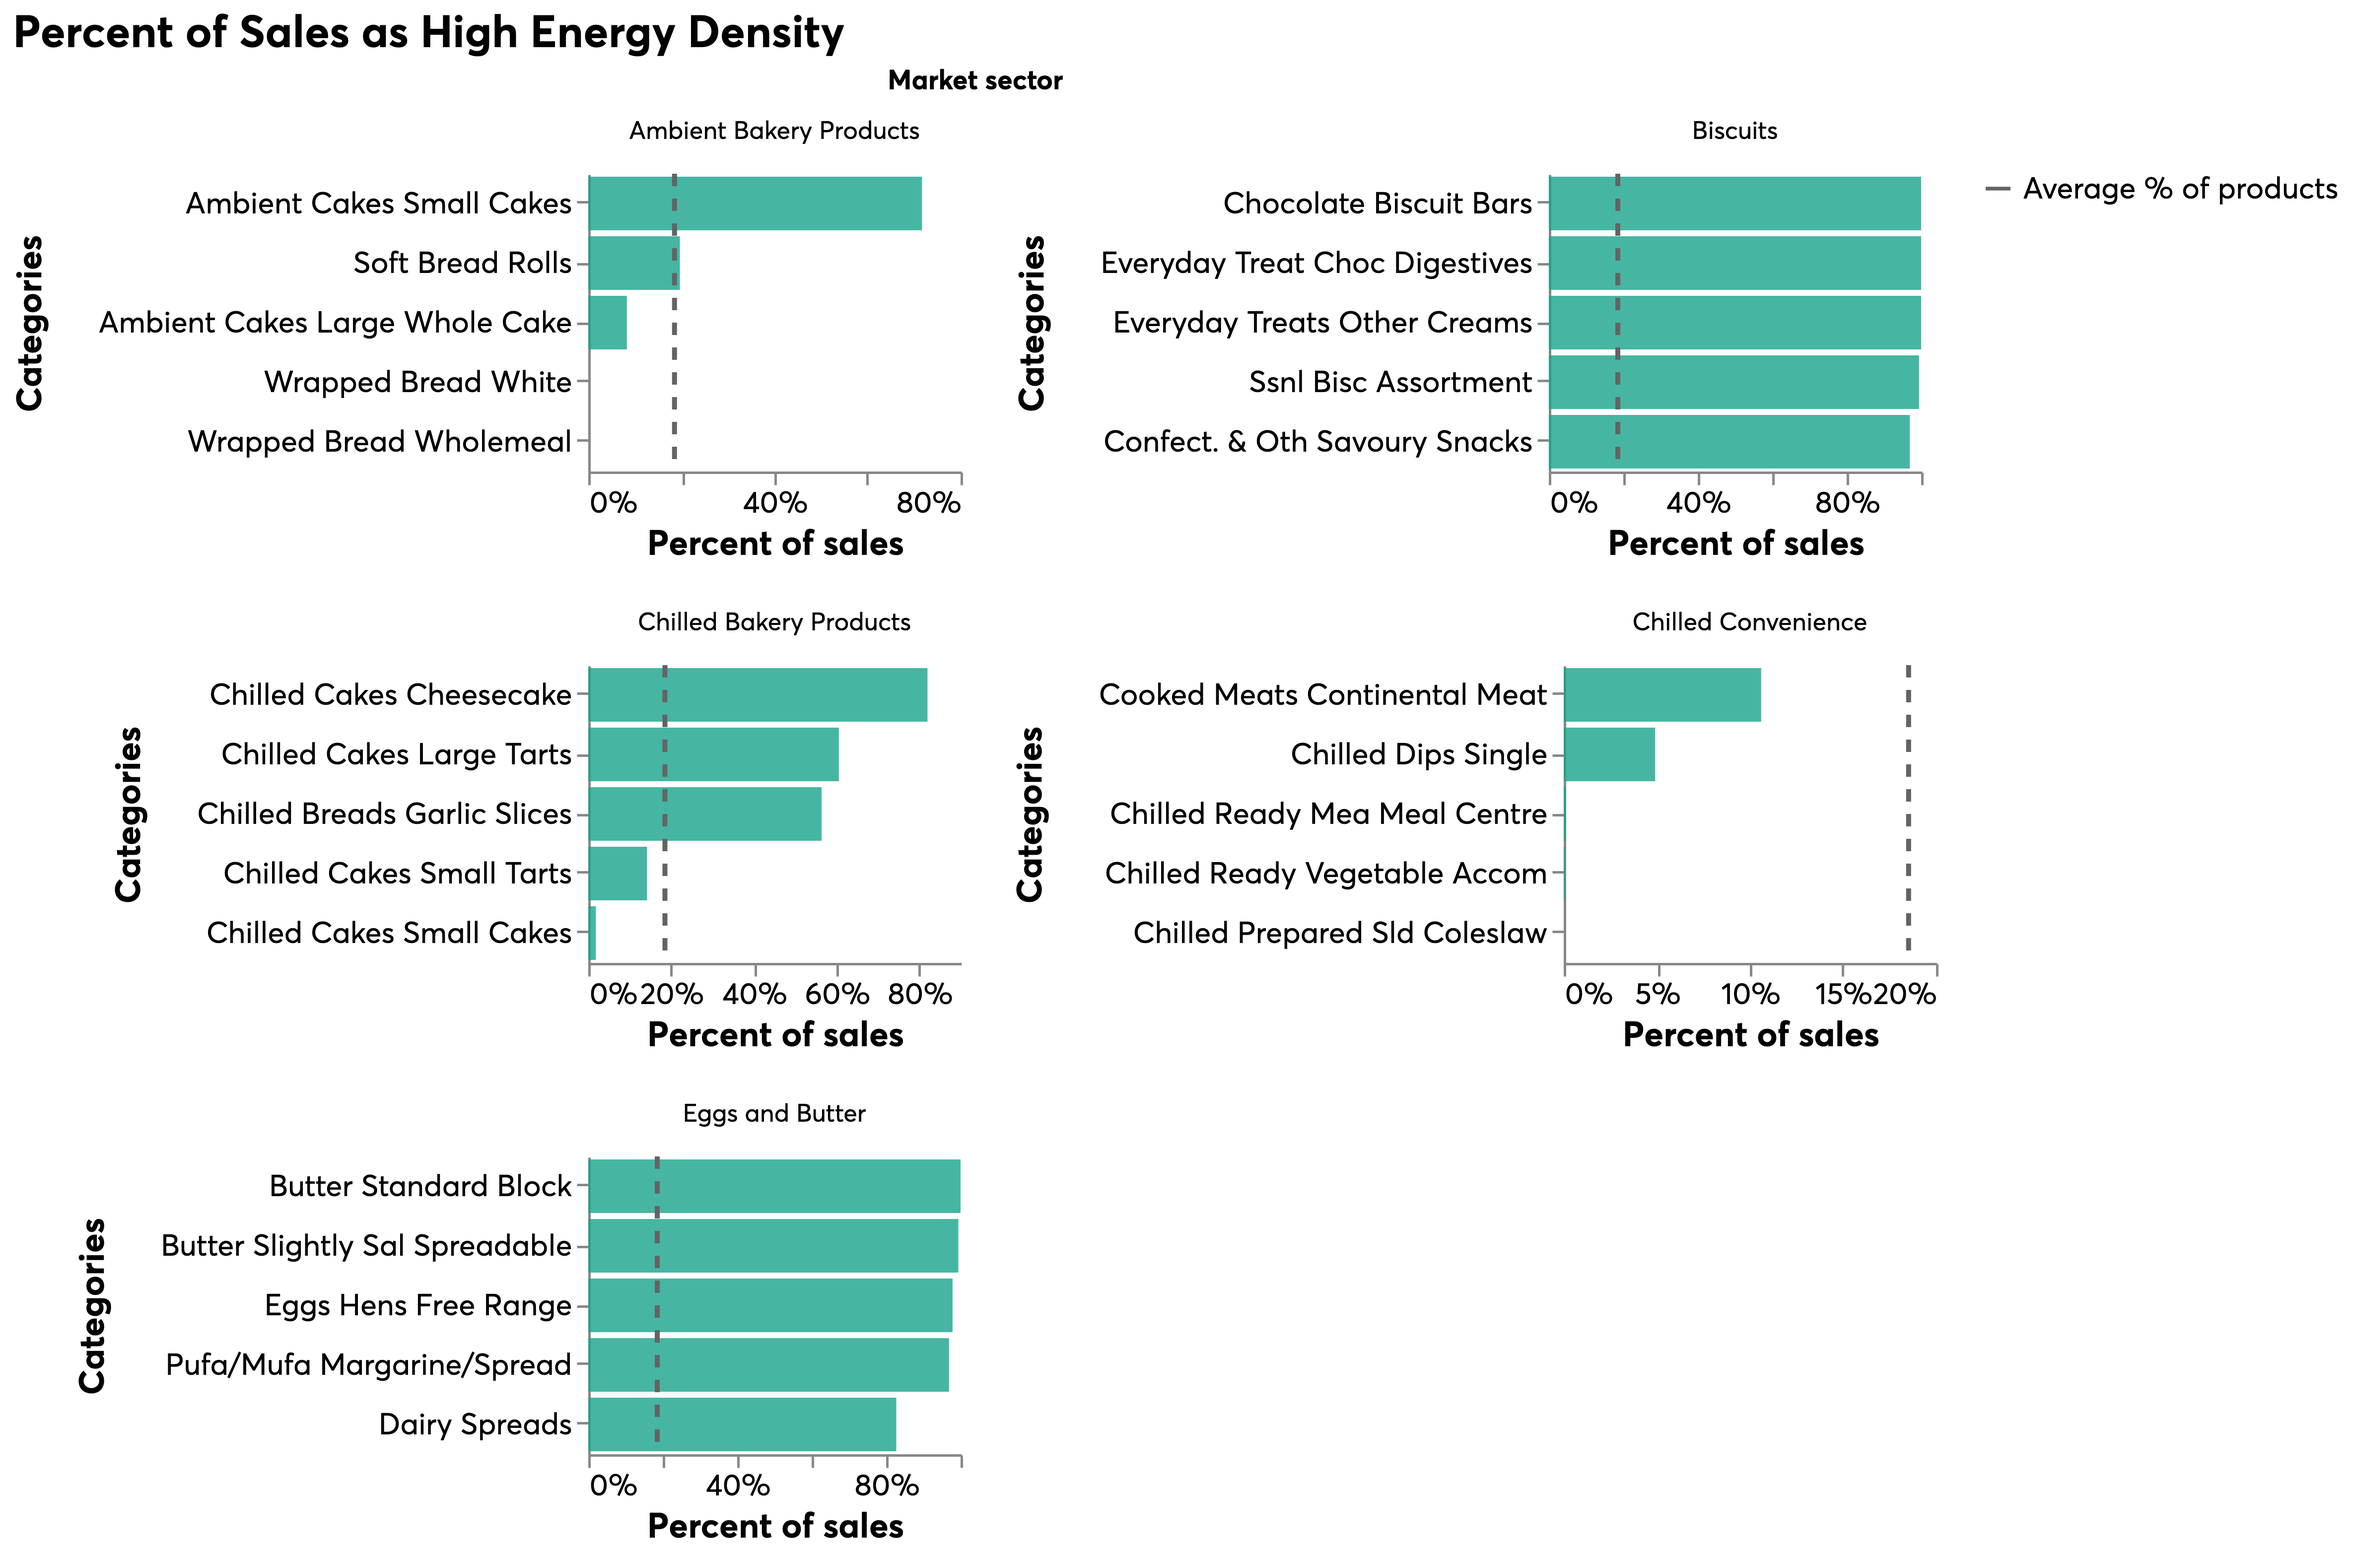
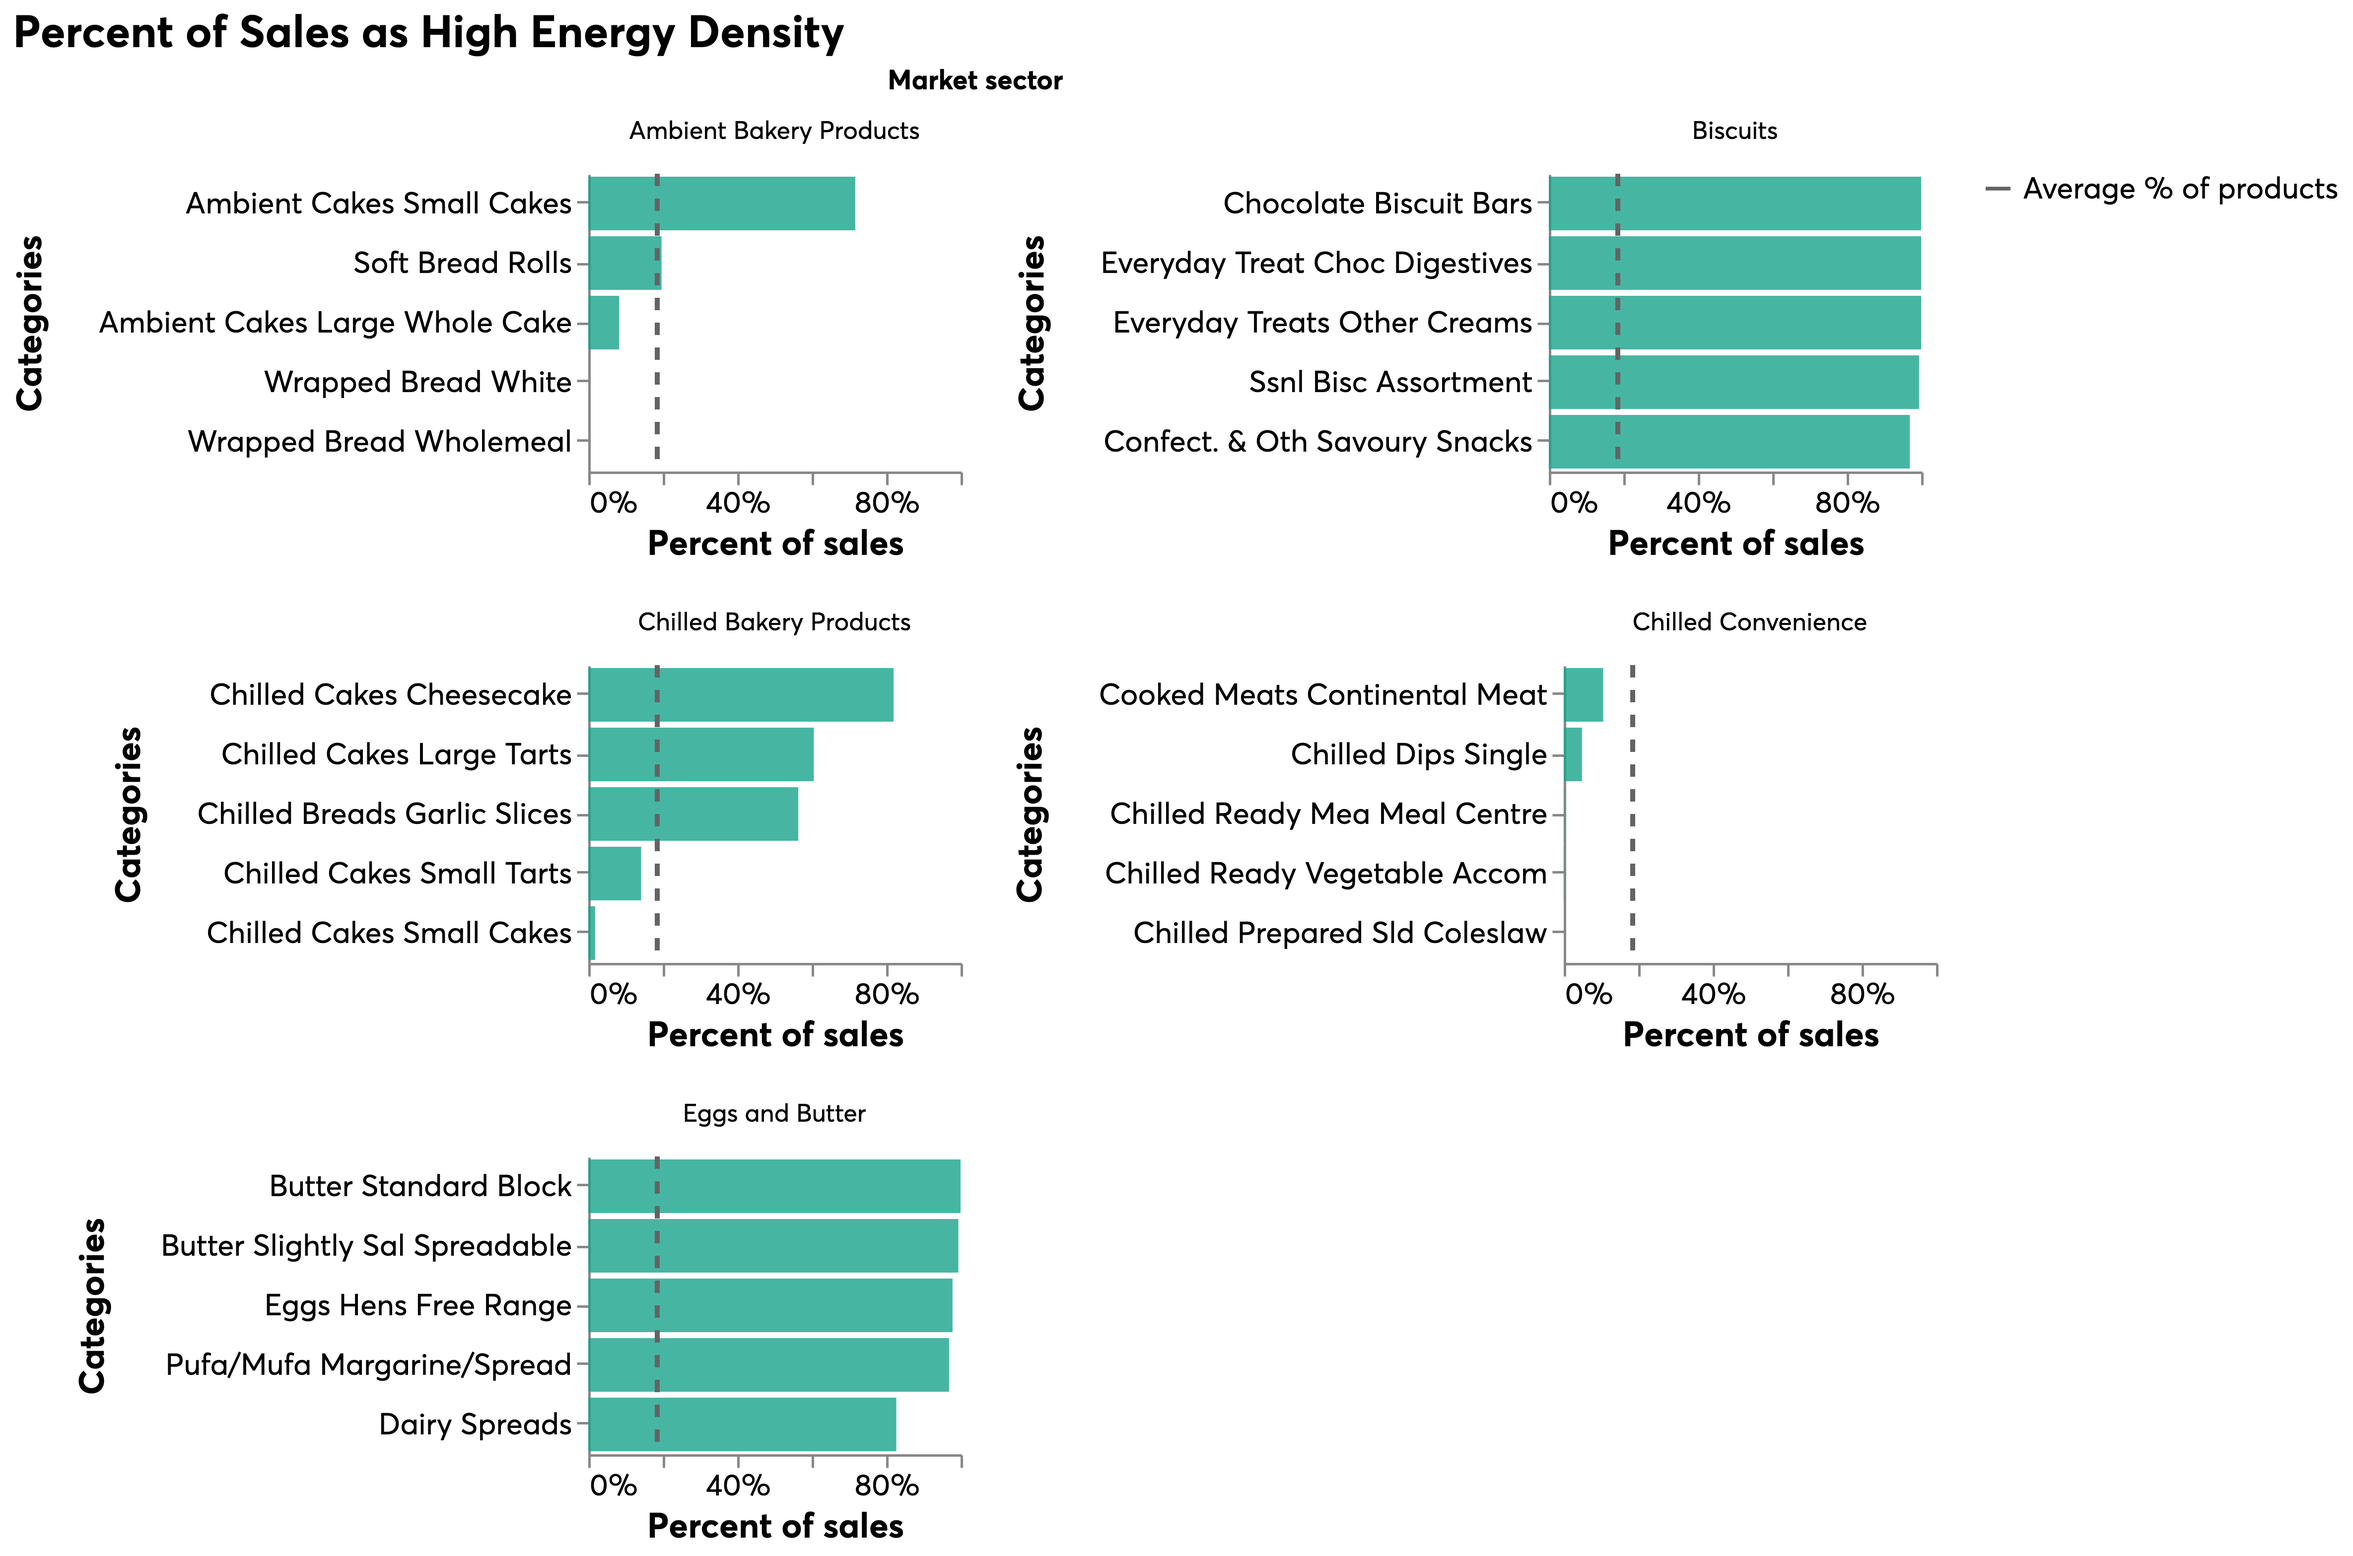
updating to fix plot error

diff --git a/ahl_food_reformulation/analysis/decision_table_analysis/visualise_targets.py b/ahl_food_reformulation/analysis/decision_table_analysis/visualise_targets.py
@@ -30,6 +30,7 @@ def decision_table_scatter(
     y_title: str,
     NESTA_COLOURS: list,
     title: str,
+    alignment: list,
 ):
     """
     Plots altair scatter based on metrics in decision table for market sector
@@ -41,6 +42,7 @@ def decision_table_scatter(
         y_title (str): Title for y-axis
         NESTA_COLOURS (list): List of hex nesta colours
         title (st): Plot title
+        alignment (list): Specs for alignment of annotations
     Returns:
         Scatter plot
     """
@@ -60,8 +62,15 @@ def decision_table_scatter(
     )
     text = (
         points.transform_filter(alt.datum.Categories != "Other categories")
-        .mark_text(align="right", baseline="line-bottom", dx=15, dy=-5, fontSize=14)
-        .encode(text="Categories")
+        # .mark_text(align="right", baseline="line-bottom", dx=15, dy=-5, fontSize=14)
+        # ["right", "line-bottom", 15, -5]
+        .mark_text(
+            align=alignment[0],
+            baseline=alignment[1],
+            dx=alignment[2],
+            dy=alignment[3],
+            fontSize=14,
+        ).encode(text="Categories")
     )
     fig = points + text
     return configure_plots(
@@ -109,7 +118,12 @@ def facet_bar_perc_ed(
                 axis=alt.Axis(titlePadding=20),
                 sort=alt.EncodingSortField(col_x, order="descending"),
             ),
-            x=alt.X(col_x, title=x_label, axis=alt.Axis(format="%", grid=False)),
+            x=alt.X(
+                col_x,
+                title=x_label,
+                axis=alt.Axis(format="%", grid=False),
+                scale=alt.Scale(domain=[0, 1]),
+            ),
         )
     )
     chart_two = (
@@ -240,6 +254,9 @@ if __name__ == "__main__":
         broad_decision_clusters["Categories"],
     )
 
+if __name__ == "__main__":
+    driver = google_chrome_driver_setup()
+
     logging.info("Create plots")
     # Create plots
     figure_density_prod_sales = decision_table_scatter(
@@ -250,6 +267,7 @@ if __name__ == "__main__":
         "Kcal per 100g/l sales weighted",
         NESTA_COLOURS,
         "Kcal density products and sales weighted",
+        ["right", "line-bottom", 15, -5],
     )
     figure_cont_perc_ed = decision_table_scatter(
         broad_decision,
@@ -259,6 +277,7 @@ if __name__ == "__main__":
         "Percent kcal contribution",
         NESTA_COLOURS,
         "Kcal contribution vs rate of high energy density products",
+        ["left", "line-top", 6, 1],
     )
     figure_cluster_share = decision_table_scatter(
         broad_decision_clusters,
@@ -268,6 +287,7 @@ if __name__ == "__main__":
         "clusters low income impacted share",
         NESTA_COLOURS,
         "Share of clusters and low income clusters impacted",
+        ["right", "line-bottom", 15, -5],
     )
     figure_facet_sales_ed = facet_bar_perc_ed(
         gran_decision_subset,
